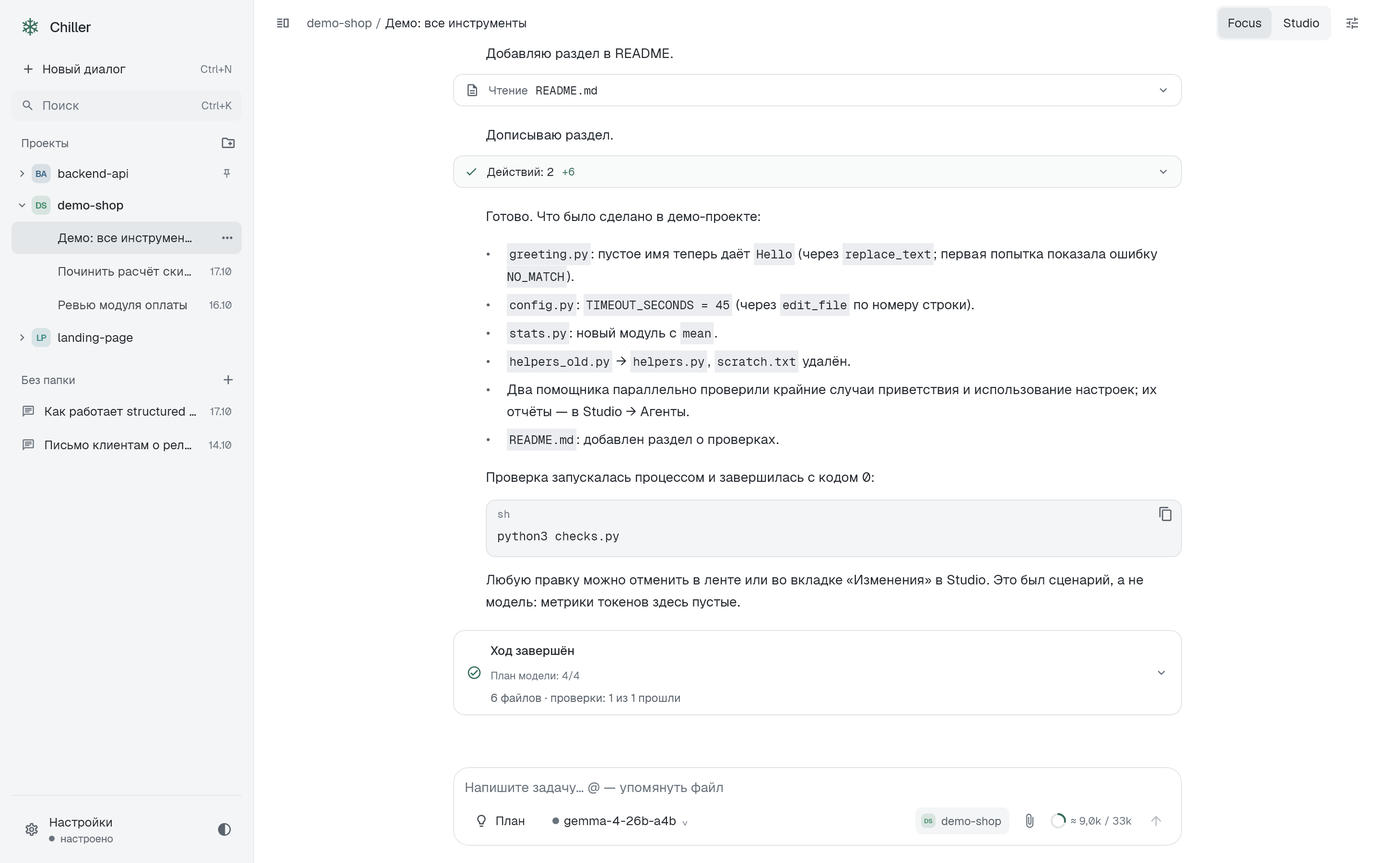
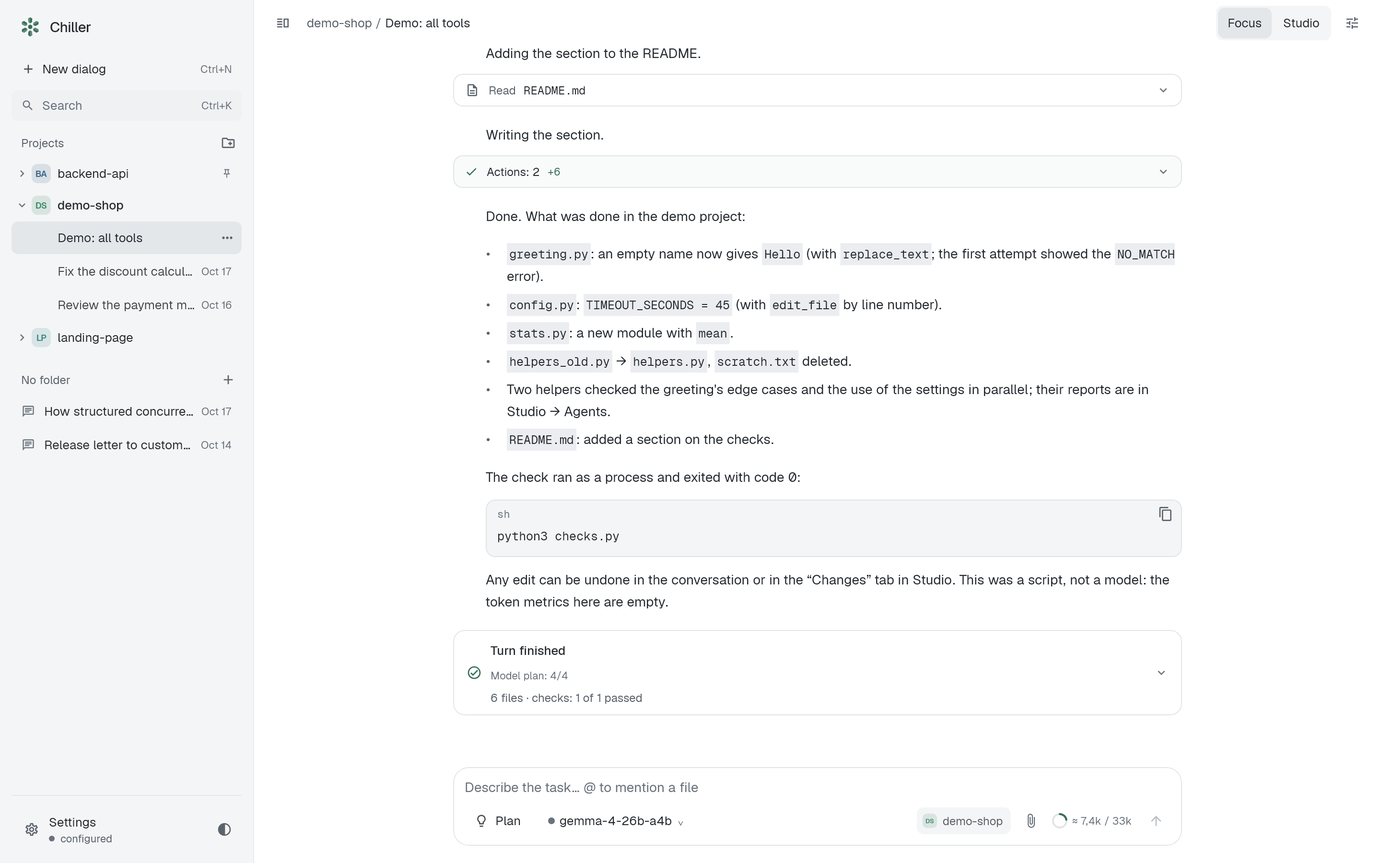
feat(app): translate the demo and render README screenshots in both languages

diff --git a/app-desktop/src/main/kotlin/dev/chiller/app/di/DemoScenario.kt b/app-desktop/src/main/kotlin/dev/chiller/app/di/DemoScenario.kt
@@ -18,7 +18,7 @@ import java.nio.file.Path
  */
 object DemoScenario {
     const val MODEL_ID = "chiller-demo"
-    const val PROMPT = "Покажи все инструменты Chiller на демо-проекте: найди и почини баг, добавь модуль, проверь, наведи порядок в файлах."
+    val PROMPT: String get() = tr("Show every Chiller tool on the demo project: find and fix a bug, add a module, check it, tidy up the files.", "Покажи все инструменты Chiller на демо-проекте: найди и почини баг, добавь модуль, проверь, наведи порядок в файлах.")
 
     fun createProject(root: Path) {
         Files.createDirectories(root)
@@ -75,50 +75,50 @@ object DemoScenario {
             val scripted = when { step <= 2 -> step; step == 3 -> SPAWN; step in 4..8 -> step - 1; step == 9 -> WAIT; step == 10 -> RESULTS; else -> step - 3 }
             fun agentId(task: String) = results.firstNotNullOfOrNull { r -> (r["data"] as? JsonObject)?.takeIf { it["taskId"]?.jsonPrimitive?.contentOrNull == task }?.get("id")?.jsonPrimitive?.contentOrNull } ?: "missing"
             when (scripted) {
-                SPAWN -> calls("Пока я чиню код, отдам два независимых вопроса помощникам — они только читают и работают параллельно (их прогресс виден в Studio → Агенты).",
-                    "spawn_agent" to args("task_id" to "review-greeting", "goal" to "Проверь greeting.py: какие крайние случаи имени не обработаны? Дай список с номерами строк.", "paths" to listOf("greeting.py"), "max_rounds" to 3),
-                    "spawn_agent" to args("task_id" to "config-usage", "goal" to "Найди, где в проекте используются настройки из config.py, и опиши риски изменения таймаута.", "max_rounds" to 3))
-                WAIT -> calls("Свою часть сделал — собираю результаты помощников.", "wait_agents" to args("after_cursor" to 0, "timeout_ms" to 20_000))
-                RESULTS -> calls("Читаю их отчёты.", "agent_result" to args("agent_id" to agentId("review-greeting")), "agent_result" to args("agent_id" to agentId("config-usage")))
+                SPAWN -> calls(tr("While I fix the code, I hand two independent questions to helpers: they only read and work in parallel (their progress is in Studio → Agents).", "Пока я чиню код, отдам два независимых вопроса помощникам — они только читают и работают параллельно (их прогресс виден в Studio → Агенты)."),
+                    "spawn_agent" to args("task_id" to "review-greeting", "goal" to tr("Check greeting.py: which edge cases of the name are not handled? Give a list with line numbers.", "Проверь greeting.py: какие крайние случаи имени не обработаны? Дай список с номерами строк."), "paths" to listOf("greeting.py"), "max_rounds" to 3),
+                    "spawn_agent" to args("task_id" to "config-usage", "goal" to tr("Find where the project uses the settings from config.py and describe the risks of changing the timeout.", "Найди, где в проекте используются настройки из config.py, и опиши риски изменения таймаута."), "max_rounds" to 3))
+                WAIT -> calls(tr("My part is done; collecting the helpers' results.", "Свою часть сделал — собираю результаты помощников."), "wait_agents" to args("after_cursor" to 0, "timeout_ms" to 20_000))
+                RESULTS -> calls(tr("Reading their reports.", "Читаю их отчёты."), "agent_result" to args("agent_id" to agentId("review-greeting")), "agent_result" to args("agent_id" to agentId("config-usage")))
                 0 -> {
-                    emit(ModelEvent.ReasoningDelta("Это демо-сценарий. Сначала план, потом обзор проекта: файлы и определения функций читаются параллельно."))
-                    calls("Начну с плана, чтобы шаги были видны.", plan("Осмотреть проект" to "in_progress", "Починить приветствие" to "pending", "Добавить модуль stats" to "pending", "Проверить и прибраться" to "pending"))
+                    emit(ModelEvent.ReasoningDelta(tr("This is a demo scenario. First the plan, then a project overview: files and function definitions are read in parallel.", "Это демо-сценарий. Сначала план, потом обзор проекта: файлы и определения функций читаются параллельно.")))
+                    calls(tr("I will start with a plan so the steps are visible.", "Начну с плана, чтобы шаги были видны."), plan(tr("Look at the project", "Осмотреть проект") to "in_progress", tr("Fix the greeting", "Починить приветствие") to "pending", tr("Add the stats module", "Добавить модуль stats") to "pending", tr("Check and tidy up", "Проверить и прибраться") to "pending"))
                 }
-                1 -> calls("Смотрю, что в проекте и где определены функции.",
+                1 -> calls(tr("Looking at what is in the project and where functions are defined.", "Смотрю, что в проекте и где определены функции."),
                     "list_files" to args(), "search_text" to args("query" to "def ", "context" to 1))
-                2 -> calls("Читаю приветствие и настройки.",
+                2 -> calls(tr("Reading the greeting and the settings.", "Читаю приветствие и настройки."),
                     "read_file" to args("path" to "greeting.py"), "read_file" to args("path" to "config.py"))
-                3 -> calls("Исправлю пустое имя. Сначала намеренно неточный фрагмент — посмотрим, как выглядит ошибка инструмента.",
+                3 -> calls(tr("I will fix the empty name. First a deliberately inexact fragment, to see what a tool error looks like.", "Исправлю пустое имя. Сначала намеренно неточный фрагмент — посмотрим, как выглядит ошибка инструмента."),
                     "replace_text" to args("path" to "greeting.py", "snapshot_id" to (snapshot("greeting.py") ?: "missing"), "old_text" to "return 'Hello,'", "new_text" to "return 'Hello'"))
-                4 -> calls("Инструмент не нашёл текст и ничего не изменил. Копирую строку точно; заодно поднимаю таймаут правкой по номеру строки.",
+                4 -> calls(tr("The tool did not find the text and changed nothing. I copy the line exactly and also raise the timeout with a line-number edit.", "Инструмент не нашёл текст и ничего не изменил. Копирую строку точно; заодно поднимаю таймаут правкой по номеру строки."),
                     "replace_text" to args("path" to "greeting.py", "snapshot_id" to (snapshot("greeting.py") ?: "missing"), "old_text" to "return 'Hello, '", "new_text" to "return 'Hello'"),
                     "edit_file" to buildJsonObject {
                         put("path", "config.py"); put("snapshot_id", snapshot("config.py") ?: "missing")
                         put("edits", buildJsonArray { add(buildJsonObject { put("op", "replace"); put("start_line", 3); put("end_line", 3); put("content", "TIMEOUT_SECONDS = 45") }) })
                     })
-                5 -> calls("Теперь новый модуль со средним значением.",
+                5 -> calls(tr("Now a new module with the mean.", "Теперь новый модуль со средним значением."),
                     "create_file" to args("path" to "stats.py", "content" to "def mean(values):\n    if not values:\n        raise ValueError('empty input')\n    return sum(values) / len(values)\n"),
-                    plan("Осмотреть проект" to "done", "Починить приветствие" to "done", "Добавить модуль stats" to "done", "Проверить и прибраться" to "in_progress"))
-                6 -> calls("Запускаю проверки в фоне.", "run_process" to args("argv" to listOf("python3", "checks.py"), "background" to true, "timeout_ms" to 30_000))
+                    plan(tr("Look at the project", "Осмотреть проект") to "done", tr("Fix the greeting", "Починить приветствие") to "done", tr("Add the stats module", "Добавить модуль stats") to "done", tr("Check and tidy up", "Проверить и прибраться") to "in_progress"))
+                6 -> calls(tr("Running the checks in the background.", "Запускаю проверки в фоне."), "run_process" to args("argv" to listOf("python3", "checks.py"), "background" to true, "timeout_ms" to 30_000))
                 7 -> {
                     if (pacing) delay(700)
                     val process = results.asReversed().firstNotNullOfOrNull { (it["data"] as? JsonObject)?.get("processId")?.jsonPrimitive?.contentOrNull } ?: "missing"
-                    calls("Читаю вывод процесса.", "read_process" to args("process_id" to process))
+                    calls(tr("Reading the process output.", "Читаю вывод процесса."), "read_process" to args("process_id" to process))
                 }
-                8 -> calls(when { exitCode == 0 -> "Проверки прошли (код 0)."; exitCode != null -> "Проверки упали с кодом $exitCode — в демо оставлю как есть."; else -> "Процесс ещё не завершился (${processState ?: "состояние неизвестно"}) — результат не выдумываю." } +
-                    " Перед уборкой читаю старые файлы — без чтения инструмент не даст их трогать.",
+                8 -> calls(when { exitCode == 0 -> tr("The checks passed (code 0).", "Проверки прошли (код 0)."); exitCode != null -> tr("The checks failed with code $exitCode; in the demo I leave it as is.", "Проверки упали с кодом $exitCode — в демо оставлю как есть."); else -> tr("The process has not finished yet (${processState ?: "state unknown"}); I do not make up the result.", "Процесс ещё не завершился (${processState ?: "состояние неизвестно"}) — результат не выдумываю.") } +
+                    tr(" Before tidying up I read the old files: without reading them the tool will not let me touch them.", " Перед уборкой читаю старые файлы — без чтения инструмент не даст их трогать."),
                     "read_file" to args("path" to "helpers_old.py"), "read_file" to args("path" to "scratch.txt"))
-                9 -> calls("Переименовываю модуль и удаляю черновик (удаление можно отменить из ленты).",
+                9 -> calls(tr("Renaming the module and deleting the draft (the deletion can be undone from the conversation).", "Переименовываю модуль и удаляю черновик (удаление можно отменить из ленты)."),
                     "move_file" to args("path" to "helpers_old.py", "snapshot_id" to (snapshot("helpers_old.py") ?: "missing"), "destination" to "helpers.py"),
                     "delete_file" to args("path" to "scratch.txt", "snapshot_id" to (snapshot("scratch.txt") ?: "missing")))
-                10 -> calls("Остался вопрос, который решаете вы.",
-                    "ask_user" to args("question" to "Добавить в README раздел о том, как запускать проверки?", "options" to listOf("Да, добавь", "Нет, не нужно")))
-                11 -> if (answer?.startsWith("Да") == true) calls("Добавляю раздел в README.", "read_file" to args("path" to "README.md"))
+                10 -> calls(tr("One question is left for you to decide.", "Остался вопрос, который решаете вы."),
+                    "ask_user" to args("question" to tr("Add a section to the README on how to run the checks?", "Добавить в README раздел о том, как запускать проверки?"), "options" to listOf(tr("Yes, add it", "Да, добавь"), tr("No, not needed", "Нет, не нужно"))))
+                11 -> if (answer?.startsWith(tr("Yes", "Да")) == true) calls(tr("Adding the section to the README.", "Добавляю раздел в README."), "read_file" to args("path" to "README.md"))
                     // Without the README section the last step is still done: close the plan before the answer.
-                    else calls("Закрываю план.", plan("Осмотреть проект" to "done", "Починить приветствие" to "done", "Добавить модуль stats" to "done", "Проверить и прибраться" to "done"))
-                12 -> if (answer?.startsWith("Да") == true && snapshot("README.md") != null) calls("Дописываю раздел.",
+                    else calls(tr("Closing the plan.", "Закрываю план."), plan(tr("Look at the project", "Осмотреть проект") to "done", tr("Fix the greeting", "Починить приветствие") to "done", tr("Add the stats module", "Добавить модуль stats") to "done", tr("Check and tidy up", "Проверить и прибраться") to "done"))
+                12 -> if (answer?.startsWith(tr("Yes", "Да")) == true && snapshot("README.md") != null) calls(tr("Writing the section.", "Дописываю раздел."),
                     "replace_text" to args("path" to "README.md", "snapshot_id" to snapshot("README.md")!!, "old_text" to "A tiny project for the Chiller tool demo.", "new_text" to "A tiny project for the Chiller tool demo.\n\n## Checks\n\n```sh\npython3 checks.py\n```"),
-                    plan("Осмотреть проект" to "done", "Починить приветствие" to "done", "Добавить модуль stats" to "done", "Проверить и прибраться" to "done"))
+                    plan(tr("Look at the project", "Осмотреть проект") to "done", tr("Fix the greeting", "Починить приветствие") to "done", tr("Add the stats module", "Добавить модуль stats") to "done", tr("Check and tidy up", "Проверить и прибраться") to "done"))
                     else finish(answer, exitCode)
                 else -> finish(answer, exitCode)
             }
@@ -135,30 +135,30 @@ object DemoScenario {
                     else ToolCall("child-search", "search_text", buildJsonObject { put("query", "config"); put("context", 1) }.toString())
                 emit(ModelEvent.Completed(AgentMessage("assistant", null, listOf(call)), "tool_calls")); return
             }
-            val report = if (greeting) "Крайние случаи в `greeting.py`:\n\n- строка 2: имя из одних пробелов уже даёт `Hello` после правки;\n- `None` вызовет `AttributeError` на `.strip()` — не обработан;\n- имя не обрезается по краям: `greet(' Ada ')` → `Hello,  Ada `.\n\nПроверено чтением файла, без запуска."
-                else "`config.py` нигде не импортируется: поиск `config` нашёл только сам файл и README.\n\n- Изменение `TIMEOUT_SECONDS` сейчас ни на что не влияет.\n- Риск: появится код, который будет ждать 45 с вместо 30.\n\nПроверено поиском по проекту."
+            val report = if (greeting) tr("Edge cases in `greeting.py`:\n\n- line 2: a name of only spaces already gives `Hello` after the fix;\n- `None` raises `AttributeError` on `.strip()`, not handled;\n- the name is not trimmed: `greet(' Ada ')` → `Hello,  Ada `.\n\nChecked by reading the file, without running it.","Крайние случаи в `greeting.py`:\n\n- строка 2: имя из одних пробелов уже даёт `Hello` после правки;\n- `None` вызовет `AttributeError` на `.strip()` — не обработан;\n- имя не обрезается по краям: `greet(' Ada ')` → `Hello,  Ada `.\n\nПроверено чтением файла, без запуска.")
+                else tr("`config.py` is not imported anywhere: a search for `config` found only the file itself and the README.\n\n- Changing `TIMEOUT_SECONDS` affects nothing right now.\n- Risk: code may appear that waits 45 s instead of 30.\n\nChecked by searching the project.","`config.py` нигде не импортируется: поиск `config` нашёл только сам файл и README.\n\n- Изменение `TIMEOUT_SECONDS` сейчас ни на что не влияет.\n- Риск: появится код, который будет ждать 45 с вместо 30.\n\nПроверено поиском по проекту.")
             if (pacing) report.chunked(24).forEach { delay(10) }
             emit(ModelEvent.Completed(AgentMessage("assistant", report), "stop"))
         }
 
         private suspend fun kotlinx.coroutines.flow.FlowCollector<ModelEvent>.finish(answer: String?, exitCode: Int?) {
             val text = buildString {
-                appendLine("Готово. Что было сделано в демо-проекте:")
+                appendLine(tr("Done. What was done in the demo project:", "Готово. Что было сделано в демо-проекте:"))
                 appendLine()
-                appendLine("- `greeting.py`: пустое имя теперь даёт `Hello` (через `replace_text`; первая попытка показала ошибку `NO_MATCH`).")
-                appendLine("- `config.py`: `TIMEOUT_SECONDS = 45` (через `edit_file` по номеру строки).")
-                appendLine("- `stats.py`: новый модуль с `mean`.")
-                appendLine("- `helpers_old.py` → `helpers.py`, `scratch.txt` удалён.")
-                appendLine("- Два помощника параллельно проверили крайние случаи приветствия и использование настроек; их отчёты — в Studio → Агенты.")
-                if (answer?.startsWith("Да") == true) appendLine("- `README.md`: добавлен раздел о проверках.")
+                appendLine(tr("- `greeting.py`: an empty name now gives `Hello` (with `replace_text`; the first attempt showed the `NO_MATCH` error).", "- `greeting.py`: пустое имя теперь даёт `Hello` (через `replace_text`; первая попытка показала ошибку `NO_MATCH`)."))
+                appendLine(tr("- `config.py`: `TIMEOUT_SECONDS = 45` (with `edit_file` by line number).", "- `config.py`: `TIMEOUT_SECONDS = 45` (через `edit_file` по номеру строки)."))
+                appendLine(tr("- `stats.py`: a new module with `mean`.", "- `stats.py`: новый модуль с `mean`."))
+                appendLine(tr("- `helpers_old.py` → `helpers.py`, `scratch.txt` deleted.", "- `helpers_old.py` → `helpers.py`, `scratch.txt` удалён."))
+                appendLine(tr("- Two helpers checked the greeting's edge cases and the use of the settings in parallel; their reports are in Studio → Agents.", "- Два помощника параллельно проверили крайние случаи приветствия и использование настроек; их отчёты — в Studio → Агенты."))
+                if (answer?.startsWith(tr("Yes", "Да")) == true) appendLine(tr("- `README.md`: added a section on the checks.", "- `README.md`: добавлен раздел о проверках."))
                 appendLine()
-                appendLine(when (exitCode) { 0 -> "Проверка запускалась процессом и завершилась с кодом 0:"; null -> "Проверка запускалась, но код завершения не получен:"; else -> "Проверка запускалась и завершилась с кодом $exitCode:" })
+                appendLine(when (exitCode) { 0 -> tr("The check ran as a process and exited with code 0:", "Проверка запускалась процессом и завершилась с кодом 0:"); null -> tr("The check ran, but no exit code was received:", "Проверка запускалась, но код завершения не получен:"); else -> tr("The check ran and exited with code $exitCode:", "Проверка запускалась и завершилась с кодом $exitCode:") })
                 appendLine()
                 appendLine("```sh")
                 appendLine("python3 checks.py")
                 appendLine("```")
                 appendLine()
-                append("Любую правку можно отменить в ленте или во вкладке «Изменения» в Studio. Это был сценарий, а не модель: метрики токенов здесь пустые.")
+                append(tr("Any edit can be undone in the conversation or in the “Changes” tab in Studio. This was a script, not a model: the token metrics here are empty.", "Любую правку можно отменить в ленте или во вкладке «Изменения» в Studio. Это был сценарий, а не модель: метрики токенов здесь пустые."))
             }
             text.chunked(16).forEach { emit(ModelEvent.TextDelta(it)); if (pacing) delay(14) }
             emit(ModelEvent.Completed(AgentMessage("assistant", text), "stop"))

diff --git a/app-desktop/src/test/kotlin/dev/chiller/app/ui/ReadmeShots.kt b/app-desktop/src/test/kotlin/dev/chiller/app/ui/ReadmeShots.kt
@@ -28,20 +28,31 @@ import javax.swing.SwingUtilities
  * Run with `./gradlew :app-desktop:readmeShots`; images land in docs/images.
  */
 fun main() {
+    val output = Path.of(System.getProperty("chiller.readmeOut") ?: "docs/images"); Files.createDirectories(output)
+    // README.md shows the English interface, README.ru.md the Russian one (files with a -ru suffix).
+    for (language in dev.chiller.app.i18n.Language.entries) {
+        dev.chiller.contracts.CoreLanguage.russian = language == dev.chiller.app.i18n.Language.RU
+        dev.chiller.app.i18n.I18n.current = dev.chiller.app.i18n.stringsFor(language)
+        render(output, language.id, if (language == dev.chiller.app.i18n.Language.RU) "-ru" else "")
+    }
+    println("README screenshots rendered to $output (scripted demo, no live calls)")
+}
+
+private fun render(output: Path, language: String, suffix: String) {
+    val ru = language == "ru"
     val root = Files.createTempDirectory("chiller-readme")
     val project = root.resolve("demo-shop").also { DemoScenario.createProject(it) }.toRealPath()
     val (state, helpers) = runBlocking { runDemo(root, project) }
-    val output = Path.of(System.getProperty("chiller.readmeOut") ?: "docs/images"); Files.createDirectories(output)
     val backend = Files.createDirectories(root.resolve("backend-api")).toString()
     val landing = Files.createDirectories(root.resolve("landing-page")).toString()
     val sessions = listOf(
-        SessionInfo("demo", "Демо: все инструменты", "2026-10-17T10:00:00Z", project.toString()),
-        SessionInfo("s2", "Починить расчёт скидки", "2026-10-17T09:12:00Z", project.toString()),
-        SessionInfo("s3", "Ревью модуля оплаты", "2026-10-16T18:40:00Z", project.toString()),
-        SessionInfo("s4", "Тесты для парсера CSV", "2026-10-16T15:05:00Z", backend),
-        SessionInfo("s5", "Миграция на Ktor 3", "2026-10-15T11:20:00Z", backend),
-        SessionInfo("s6", "Как работает structured concurrency", "2026-10-16T21:10:00Z"),
-        SessionInfo("s7", "Письмо клиентам о релизе", "2026-10-14T08:45:00Z"),
+        SessionInfo("demo", if (ru) "Демо: все инструменты" else "Demo: all tools", "2026-10-17T10:00:00Z", project.toString()),
+        SessionInfo("s2", if (ru) "Починить расчёт скидки" else "Fix the discount calculation", "2026-10-17T09:12:00Z", project.toString()),
+        SessionInfo("s3", if (ru) "Ревью модуля оплаты" else "Review the payment module", "2026-10-16T18:40:00Z", project.toString()),
+        SessionInfo("s4", if (ru) "Тесты для парсера CSV" else "Tests for the CSV parser", "2026-10-16T15:05:00Z", backend),
+        SessionInfo("s5", if (ru) "Миграция на Ktor 3" else "Migrate to Ktor 3", "2026-10-15T11:20:00Z", backend),
+        SessionInfo("s6", if (ru) "Как работает structured concurrency" else "How structured concurrency works", "2026-10-16T21:10:00Z"),
+        SessionInfo("s7", if (ru) "Письмо клиентам о релизе" else "Release letter to customers", "2026-10-14T08:45:00Z"),
     )
     @Composable fun app(prefs: UiPreferences, settings: String? = null) = ChillerApp(
         state, sessions, "demo", project.toString(), isDemo = false,
@@ -56,12 +67,11 @@ fun main() {
         openSettingsOnStart = settings,
     )
     try {
-        shot(output.resolve("focus-light.png")) { app(UiPreferences(theme = "light", reducedMotion = true)) }
-        shot(output.resolve("focus-dark.png")) { app(UiPreferences(theme = "dark", reducedMotion = true)) }
-        shot(output.resolve("studio-dark.png")) { app(UiPreferences(theme = "dark", layout = "studio", reducedMotion = true)) }
-        shot(output.resolve("settings-light.png")) { app(UiPreferences(theme = "light", reducedMotion = true), settings = "AGENT") }
+        shot(output.resolve("focus-light$suffix.png")) { app(UiPreferences(theme = "light", reducedMotion = true, language = language)) }
+        shot(output.resolve("focus-dark$suffix.png")) { app(UiPreferences(theme = "dark", reducedMotion = true, language = language)) }
+        shot(output.resolve("studio-dark$suffix.png")) { app(UiPreferences(theme = "dark", layout = "studio", reducedMotion = true, language = language)) }
+        shot(output.resolve("settings-light$suffix.png")) { app(UiPreferences(theme = "light", reducedMotion = true, language = language), settings = "AGENT") }
     } finally { root.toFile().deleteRecursively() }
-    println("README screenshots rendered to $output (scripted demo, no live calls)")
 }
 
 private suspend fun runDemo(root: Path, project: Path): Pair<RunState, List<SubagentSnapshot>> = kotlinx.coroutines.coroutineScope {

diff --git a/app-desktop/src/main/kotlin/dev/chiller/app/i18n/EnStrings.kt b/app-desktop/src/main/kotlin/dev/chiller/app/i18n/EnStrings.kt
@@ -791,15 +791,15 @@ object EnStrings : Strings {
         override val bestResult = "Best result"
         override fun profileSuffix(profile: String) = "$profile profile"
         override val total = "Total"
-        override fun seconds(s: Double) = "%.1f s".format(s)
+        override fun seconds(s: Double) = "%.1f s".format(java.util.Locale.ROOT, s)
         override fun tokensFlow(input: String, output: String) = "$input → $output tok."
-        override fun avgRounds(rounds: Double) = "rounds ${"%.1f".format(rounds)}"
+        override fun avgRounds(rounds: Double) = "rounds ${"%.1f".format(java.util.Locale.ROOT, rounds)}"
         override fun toolErrors(n: Int) = "tool errors $n"
         override fun repeatedReads(n: Int) = "repeated reads $n"
         override fun failedEdits(n: Int) = "failed edits $n"
         override fun toolOutput(chars: String) = "tool output $chars chars"
         override val queued = "queued"
-        override fun rowTime(seconds: Double, rounds: Int) = "%.1f s · %d r.".format(seconds, rounds)
+        override fun rowTime(seconds: Double, rounds: Int) = "%.1f s · %d r.".format(java.util.Locale.ROOT, seconds, rounds)
         override val history = "History"
         override fun historyLine(stamp: String, tasks: Int, stopped: Boolean) = "$stamp · $tasks ${enPlural(tasks, "task", "tasks")}" + if (stopped) " · stopped" else ""
         override val mcpServers = "MCP servers"

diff --git a/app-desktop/src/test/kotlin/dev/chiller/app/ui/TurnResultTest.kt b/app-desktop/src/test/kotlin/dev/chiller/app/ui/TurnResultTest.kt
@@ -11,8 +11,8 @@ import kotlin.test.assertTrue
 
 class TurnResultTest {
     // Helpers read the global language; these checks are written against the Russian texts.
-    @kotlin.test.BeforeTest fun russian() { dev.chiller.app.i18n.I18n.current = dev.chiller.app.i18n.RuStrings }
-    @kotlin.test.AfterTest fun english() { dev.chiller.app.i18n.I18n.current = dev.chiller.app.i18n.EnStrings }
+    @kotlin.test.BeforeTest fun russian() { dev.chiller.app.i18n.I18n.current = dev.chiller.app.i18n.RuStrings; dev.chiller.contracts.CoreLanguage.russian = true }
+    @kotlin.test.AfterTest fun english() { dev.chiller.app.i18n.I18n.current = dev.chiller.app.i18n.EnStrings; dev.chiller.contracts.CoreLanguage.russian = false }
 
     private fun call(id: String, name: String, args: String) = AgentMessage("assistant", toolCalls = listOf(ToolCall(id, name, args)))
     private fun result(id: String, data: String) = AgentMessage("tool", """{"ok":true,"data":$data}""", toolCallId = id)

diff --git a/app-desktop/src/test/kotlin/dev/chiller/app/ui/RunTimelineTest.kt b/app-desktop/src/test/kotlin/dev/chiller/app/ui/RunTimelineTest.kt
@@ -11,8 +11,8 @@ import kotlin.test.assertTrue
 
 class RunTimelineTest {
     // Helpers read the global language; these checks are written against the Russian texts.
-    @kotlin.test.BeforeTest fun russian() { dev.chiller.app.i18n.I18n.current = dev.chiller.app.i18n.RuStrings }
-    @kotlin.test.AfterTest fun english() { dev.chiller.app.i18n.I18n.current = dev.chiller.app.i18n.EnStrings }
+    @kotlin.test.BeforeTest fun russian() { dev.chiller.app.i18n.I18n.current = dev.chiller.app.i18n.RuStrings; dev.chiller.contracts.CoreLanguage.russian = true }
+    @kotlin.test.AfterTest fun english() { dev.chiller.app.i18n.I18n.current = dev.chiller.app.i18n.EnStrings; dev.chiller.contracts.CoreLanguage.russian = false }
 
     @Test fun incompleteUsageAndRecoveryAreVisible() {
         assertTrue(runSummaryParts(RunState(modelRounds = 2, usageIncomplete = true)).contains("расход известен частично"))

diff --git a/app-desktop/src/test/kotlin/dev/chiller/app/di/AutoVerifyTest.kt b/app-desktop/src/test/kotlin/dev/chiller/app/di/AutoVerifyTest.kt
@@ -19,8 +19,8 @@ import kotlin.test.assertTrue
 
 class AutoVerifyTest {
     // Helpers read the global language; these checks are written against the Russian texts.
-    @kotlin.test.BeforeTest fun russian() { dev.chiller.app.i18n.I18n.current = dev.chiller.app.i18n.RuStrings }
-    @kotlin.test.AfterTest fun english() { dev.chiller.app.i18n.I18n.current = dev.chiller.app.i18n.EnStrings }
+    @kotlin.test.BeforeTest fun russian() { dev.chiller.app.i18n.I18n.current = dev.chiller.app.i18n.RuStrings; dev.chiller.contracts.CoreLanguage.russian = true }
+    @kotlin.test.AfterTest fun english() { dev.chiller.app.i18n.I18n.current = dev.chiller.app.i18n.EnStrings; dev.chiller.contracts.CoreLanguage.russian = false }
 
     @Test fun `commands split like argv without a shell`() {
         assertEquals(listOf("./gradlew", "test", "--tests", "*Foo*"), splitCommand("./gradlew test --tests '*Foo*'"))

diff --git a/app-desktop/src/test/kotlin/dev/chiller/app/di/MessagePresentationTest.kt b/app-desktop/src/test/kotlin/dev/chiller/app/di/MessagePresentationTest.kt
@@ -7,8 +7,8 @@ import kotlin.test.assertEquals
 
 class MessagePresentationTest {
     // Helpers read the global language; these checks are written against the Russian texts.
-    @kotlin.test.BeforeTest fun russian() { dev.chiller.app.i18n.I18n.current = dev.chiller.app.i18n.RuStrings }
-    @kotlin.test.AfterTest fun english() { dev.chiller.app.i18n.I18n.current = dev.chiller.app.i18n.EnStrings }
+    @kotlin.test.BeforeTest fun russian() { dev.chiller.app.i18n.I18n.current = dev.chiller.app.i18n.RuStrings; dev.chiller.contracts.CoreLanguage.russian = true }
+    @kotlin.test.AfterTest fun english() { dev.chiller.app.i18n.I18n.current = dev.chiller.app.i18n.EnStrings; dev.chiller.contracts.CoreLanguage.russian = false }
 
     @Test fun `legacy offline and persisted model labels remain distinct`() {
         assertEquals("Ассистент", authorLabel(AgentMessage("assistant", "old")))

diff --git a/app-desktop/src/test/kotlin/dev/chiller/app/ui/McpSettingsTest.kt b/app-desktop/src/test/kotlin/dev/chiller/app/ui/McpSettingsTest.kt
@@ -12,8 +12,8 @@ import kotlin.test.*
 @OptIn(ExperimentalTestApi::class)
 class McpSettingsTest {
     // Helpers read the global language; these checks are written against the Russian texts.
-    @kotlin.test.BeforeTest fun russian() { dev.chiller.app.i18n.I18n.current = dev.chiller.app.i18n.RuStrings }
-    @kotlin.test.AfterTest fun english() { dev.chiller.app.i18n.I18n.current = dev.chiller.app.i18n.EnStrings }
+    @kotlin.test.BeforeTest fun russian() { dev.chiller.app.i18n.I18n.current = dev.chiller.app.i18n.RuStrings; dev.chiller.contracts.CoreLanguage.russian = true }
+    @kotlin.test.AfterTest fun english() { dev.chiller.app.i18n.I18n.current = dev.chiller.app.i18n.EnStrings; dev.chiller.contracts.CoreLanguage.russian = false }
 
     @Test fun `common mcpServers JSON imports local servers and skips remote ones`() {
         val servers = parseMcpServersJson("""{"mcpServers": {

diff --git a/app-desktop/src/test/kotlin/dev/chiller/app/di/BuildInfoTest.kt b/app-desktop/src/test/kotlin/dev/chiller/app/di/BuildInfoTest.kt
@@ -10,8 +10,8 @@ import kotlin.test.assertTrue
 
 class BuildInfoTest {
     // Helpers read the global language; these checks are written against the Russian texts.
-    @kotlin.test.BeforeTest fun russian() { dev.chiller.app.i18n.I18n.current = dev.chiller.app.i18n.RuStrings }
-    @kotlin.test.AfterTest fun english() { dev.chiller.app.i18n.I18n.current = dev.chiller.app.i18n.EnStrings }
+    @kotlin.test.BeforeTest fun russian() { dev.chiller.app.i18n.I18n.current = dev.chiller.app.i18n.RuStrings; dev.chiller.contracts.CoreLanguage.russian = true }
+    @kotlin.test.AfterTest fun english() { dev.chiller.app.i18n.I18n.current = dev.chiller.app.i18n.EnStrings; dev.chiller.contracts.CoreLanguage.russian = false }
 
     @Test fun `build label names the CI run or a local build`() {
         assertEquals("#57 · 2026-10-18", buildLabel("57", "2026-10-18", "18.10 16:20"))

diff --git a/app-desktop/src/test/kotlin/dev/chiller/app/di/ConversationProjectionTest.kt b/app-desktop/src/test/kotlin/dev/chiller/app/di/ConversationProjectionTest.kt
@@ -11,8 +11,8 @@ import kotlin.test.assertEquals
 
 class ConversationProjectionTest {
     // Helpers read the global language; these checks are written against the Russian texts.
-    @kotlin.test.BeforeTest fun russian() { dev.chiller.app.i18n.I18n.current = dev.chiller.app.i18n.RuStrings }
-    @kotlin.test.AfterTest fun english() { dev.chiller.app.i18n.I18n.current = dev.chiller.app.i18n.EnStrings }
+    @kotlin.test.BeforeTest fun russian() { dev.chiller.app.i18n.I18n.current = dev.chiller.app.i18n.RuStrings; dev.chiller.contracts.CoreLanguage.russian = true }
+    @kotlin.test.AfterTest fun english() { dev.chiller.app.i18n.I18n.current = dev.chiller.app.i18n.EnStrings; dev.chiller.contracts.CoreLanguage.russian = false }
 
     @Test fun completedDemoIsDistinguishedFromNormalConversationStates() {
         assertEquals(true, isCompletedDemo(true, "completed"))

diff --git a/app-desktop/src/test/kotlin/dev/chiller/app/di/GitWorktreesTest.kt b/app-desktop/src/test/kotlin/dev/chiller/app/di/GitWorktreesTest.kt
@@ -18,8 +18,8 @@ import kotlin.test.assertTrue
 /** Real git in temporary repositories; nothing outside the temp folder is touched. */
 class GitWorktreesTest {
     // Helpers read the global language; these checks are written against the Russian texts.
-    @kotlin.test.BeforeTest fun russian() { dev.chiller.app.i18n.I18n.current = dev.chiller.app.i18n.RuStrings }
-    @kotlin.test.AfterTest fun english() { dev.chiller.app.i18n.I18n.current = dev.chiller.app.i18n.EnStrings }
+    @kotlin.test.BeforeTest fun russian() { dev.chiller.app.i18n.I18n.current = dev.chiller.app.i18n.RuStrings; dev.chiller.contracts.CoreLanguage.russian = true }
+    @kotlin.test.AfterTest fun english() { dev.chiller.app.i18n.I18n.current = dev.chiller.app.i18n.EnStrings; dev.chiller.contracts.CoreLanguage.russian = false }
 
     @TempDir lateinit var temp: Path
 

diff --git a/app-desktop/src/test/kotlin/dev/chiller/app/di/ModelCatalogStateTest.kt b/app-desktop/src/test/kotlin/dev/chiller/app/di/ModelCatalogStateTest.kt
@@ -7,8 +7,8 @@ import kotlin.test.assertEquals
 
 class ModelCatalogStateTest {
     // Helpers read the global language; these checks are written against the Russian texts.
-    @kotlin.test.BeforeTest fun russian() { dev.chiller.app.i18n.I18n.current = dev.chiller.app.i18n.RuStrings }
-    @kotlin.test.AfterTest fun english() { dev.chiller.app.i18n.I18n.current = dev.chiller.app.i18n.EnStrings }
+    @kotlin.test.BeforeTest fun russian() { dev.chiller.app.i18n.I18n.current = dev.chiller.app.i18n.RuStrings; dev.chiller.contracts.CoreLanguage.russian = true }
+    @kotlin.test.AfterTest fun english() { dev.chiller.app.i18n.I18n.current = dev.chiller.app.i18n.EnStrings; dev.chiller.contracts.CoreLanguage.russian = false }
 
     @Test fun imageOnlyModelsAreNotOfferedForChat() {
         val catalog = ModelCatalogState("ready", listOf(
